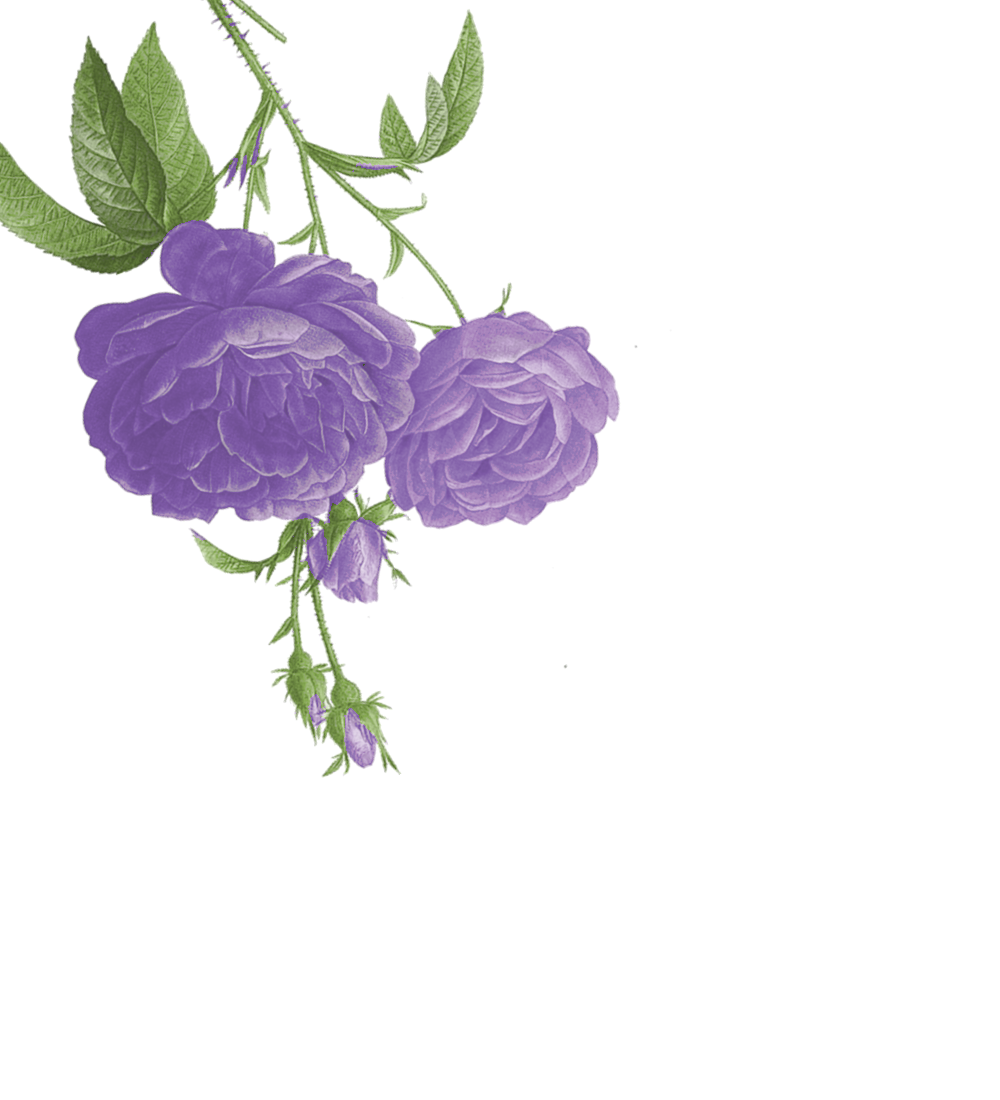
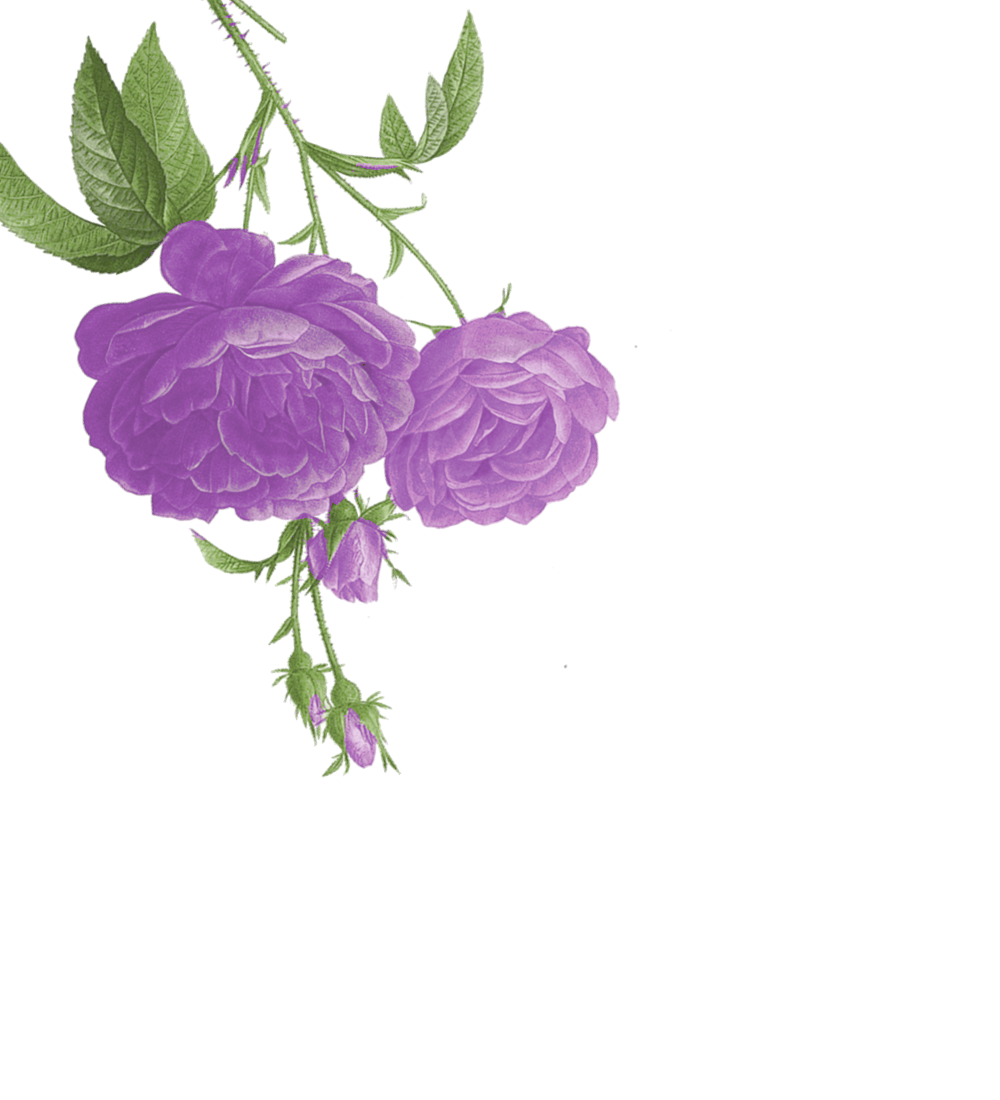
Lilas puxado para o rosa, trepadeira neon no titulo do TikTok Shop e destaques menores

Changed region(s): [[0.062, 0.1855, 0.589, 0.5564]]

diff --git a/index.html b/index.html
@@ -20,19 +20,19 @@
        ========================================================== */
     :root {
       /* Paleta gamer girly: branco, verde lima pastel aceso, lilás neon e preto */
-      --fundo: #f8f7fb;            /* branco levemente lilás */
-      --branco: #f8f7fb;
+      --fundo: #faf7fb;            /* branco levemente lilás */
+      --branco: #faf7fb;
       --fundo-2: rgba(255, 255, 255, .6);
       --superficie: #ffffff;       /* cards */
-      --superficie-2: #f0ebf8;
+      --superficie-2: #f6ecf8;
       --texto: #17141c;            /* preto: texto principal */
       --texto-suave: #5b5566;      /* texto de apoio */
       --escuro: #17141c;
-      --milk: #6a35c9;             /* lilás (tom escuro, legível no branco): números e destaques */
-      --milk-forte: #b57cff;
-      --neon: #b57cff;             /* lilás neon: botões, brilho e detalhes */
-      --neon-texto: #7d3ddb;       /* lilás neon para TEXTO no branco */
-      --brilho: 0 0 10px rgba(181, 124, 255, .6), 0 0 26px rgba(181, 124, 255, .38);
+      --milk: #8e2fb0;             /* lilás (tom escuro, legível no branco): números e destaques */
+      --milk-forte: #e07bf5;
+      --neon: #e07bf5;             /* lilás neon: botões, brilho e detalhes */
+      --neon-texto: #a23bbf;       /* lilás neon para TEXTO no branco */
+      --brilho: 0 0 10px rgba(224, 123, 245, .6), 0 0 26px rgba(224, 123, 245, .38);
       --salvia: #4e7a1c;           /* verde lima escuro, legível no branco */
       --salvia-linha: #b8e86a;     /* verde lima aceso: linhas */
       --salvia-fundo: rgba(198, 243, 107, .2);
@@ -65,7 +65,7 @@
     p { margin: 0; }
     ul { margin: 0; padding: 0; list-style: none; }
     button, input, textarea { font: inherit; color: inherit; }
-    ::selection { background: #e3d2ff; color: var(--escuro); }
+    ::selection { background: #f6d3ff; color: var(--escuro); }
 
     :focus-visible { outline: 2px solid var(--neon-texto); outline-offset: 3px; }
 
@@ -160,7 +160,7 @@
     .btn-vermelho { background: var(--neon); border-color: var(--neon); color: var(--escuro); }
     .btn-vermelho:hover, .btn-vermelho:focus-visible {
       background: var(--btn-hover-bg, #141214); border-color: var(--btn-hover-bg, #141214); color: var(--btn-hover-cor, #fff);
-      box-shadow: 0 0 30px rgba(181, 124, 255, .7);
+      box-shadow: 0 0 30px rgba(224, 123, 245, .7);
     }
     .btn-cinza { background: transparent; color: var(--texto); border-color: var(--texto); }
     .btn-cinza:hover, .btn-cinza:focus-visible { color: var(--neon-texto); border-color: var(--neon); text-shadow: var(--brilho); }
@@ -175,8 +175,8 @@
     /* Barra superior em verde botânico */
     .topo {
       position: fixed; inset: 0 0 auto 0; z-index: 100; height: var(--header-h);
-      --texto: #17141c; --neon-texto: #6a2fc4; --milk: #6a2fc4;
-      --brilho: 0 0 10px rgba(181, 124, 255, .9), 0 0 24px rgba(181, 124, 255, .55);
+      --texto: #17141c; --neon-texto: #8a1fa8; --milk: #8a1fa8;
+      --brilho: 0 0 10px rgba(224, 123, 245, .9), 0 0 24px rgba(224, 123, 245, .55);
       background: linear-gradient(90deg, rgba(222, 248, 172, .95), rgba(205, 244, 140, .95));
       box-shadow: 0 4px 30px rgba(198, 243, 107, .45);
       backdrop-filter: blur(12px); -webkit-backdrop-filter: blur(12px);
@@ -213,16 +213,16 @@
     /* Capa: preto translúcido, com cores próprias para o texto claro */
     .capa {
       --texto: #f6f3f1; --texto-suave: #d6ced3; --borda: rgba(255, 255, 255, .16);
-      --milk: #d9c2ff; --neon-texto: #d2a6ff; --salvia: #c6f36b;
-      --brilho: 0 0 10px rgba(181, 124, 255, .75), 0 0 28px rgba(181, 124, 255, .5);
+      --milk: #f0c6ff; --neon-texto: #f2a8ff; --salvia: #c6f36b;
+      --brilho: 0 0 10px rgba(224, 123, 245, .75), 0 0 28px rgba(224, 123, 245, .5);
       --btn-hover-bg: #ffffff; --btn-hover-cor: #141214;
-      --lilas-neon: #c77dff; --lilas-brilho: 0 0 8px rgba(199, 125, 255, .9), 0 0 22px rgba(199, 125, 255, .6), 0 0 44px rgba(199, 125, 255, .35);
+      --lilas-neon: #e58cff; --lilas-brilho: 0 0 8px rgba(229, 140, 255, .9), 0 0 22px rgba(229, 140, 255, .6), 0 0 44px rgba(229, 140, 255, .35);
       color: var(--texto);
       position: relative; min-height: 100vh; min-height: 100svh;
       display: flex; flex-direction: column; justify-content: flex-end;
       padding-top: calc(var(--header-h) + 36px);
       background:
-        radial-gradient(ellipse 55% 60% at 80% 30%, rgba(181, 124, 255, .26), transparent 70%),
+        radial-gradient(ellipse 55% 60% at 80% 30%, rgba(224, 123, 245, .26), transparent 70%),
         radial-gradient(ellipse 45% 45% at 6% 100%, rgba(198, 243, 107, .14), transparent 70%),
         rgba(20, 16, 26, .93);
       overflow: hidden;
@@ -241,7 +241,7 @@
     .capa h1 span:hover { color: var(--neon-texto); text-shadow: var(--brilho); }
     /* KIESKI em lilás neon */
     .capa h1 .linha-2 { display: inline-block; color: var(--lilas-neon); text-shadow: var(--lilas-brilho); padding-right: .08em; }
-    .capa h1 .linha-2:hover { color: #e2b8ff; text-shadow: 0 0 12px rgba(199, 125, 255, 1), 0 0 34px rgba(199, 125, 255, .8), 0 0 60px rgba(199, 125, 255, .5); }
+    .capa h1 .linha-2:hover { color: #f6c4ff; text-shadow: 0 0 12px rgba(229, 140, 255, 1), 0 0 34px rgba(229, 140, 255, .8), 0 0 60px rgba(229, 140, 255, .5); }
     .capa .frase { margin-top: 28px; max-width: 540px; font-size: clamp(1.05rem, 2vw, 1.22rem); color: var(--texto-suave); line-height: 1.7; }
     .capa .frase strong { color: var(--milk); font-weight: 600; transition: color .3s ease, text-shadow .3s ease; }
     .capa .frase strong:hover { color: var(--neon-texto); text-shadow: var(--brilho); }
@@ -286,8 +286,8 @@
     /* "Já trabalhei com": faixa em lilás neon, estilo gamer */
     .faixa-marcas {
       position: relative; overflow: hidden; background: #0b0a0d;
-      border-top: 1px solid rgba(199, 125, 255, .55); border-bottom: 1px solid rgba(199, 125, 255, .55);
-      box-shadow: 0 0 18px rgba(199, 125, 255, .35), inset 0 0 22px rgba(199, 125, 255, .12);
+      border-top: 1px solid rgba(229, 140, 255, .55); border-bottom: 1px solid rgba(229, 140, 255, .55);
+      box-shadow: 0 0 18px rgba(229, 140, 255, .35), inset 0 0 22px rgba(229, 140, 255, .12);
     }
     .faixa-marcas::after {
       /* linhas de tela de monitor (scanlines) */
@@ -310,7 +310,7 @@
       color: var(--lilas-neon); text-shadow: var(--lilas-brilho);
       display: flex; align-items: center; gap: 26px; transition: color .3s ease, text-shadow .3s ease;
     }
-    .faixa-trilho li:hover { color: #ffffff; text-shadow: 0 0 10px rgba(181, 124, 255, 1), 0 0 30px rgba(181, 124, 255, .8), 0 0 50px rgba(181, 124, 255, .5); }
+    .faixa-trilho li:hover { color: #ffffff; text-shadow: 0 0 10px rgba(224, 123, 245, 1), 0 0 30px rgba(224, 123, 245, .8), 0 0 50px rgba(224, 123, 245, .5); }
     .faixa-trilho li::after { content: ""; width: 6px; height: 6px; background: var(--verde-neon); box-shadow: 0 0 10px var(--verde-neon); transform: rotate(45deg); }
     @keyframes deslizar { to { transform: translateX(-50%); } }
 
@@ -323,7 +323,7 @@
       --texto: #141214; --texto-suave: #5a525d; --borda: rgba(20, 18, 20, .12);
       --superficie: #ffffff; --superficie-2: #efe9ec;
       --milk: #6f5a78; --milk-forte: #8a7593;
-      --neon-texto: #7d3ddb; --brilho: 0 0 10px rgba(181, 124, 255, .6), 0 0 26px rgba(181, 124, 255, .38);
+      --neon-texto: #a23bbf; --brilho: 0 0 10px rgba(224, 123, 245, .6), 0 0 26px rgba(224, 123, 245, .38);
       --salvia: #4b6844; --salvia-linha: #8aa37f; --salvia-fundo: rgba(95, 124, 86, .1);
       color: var(--texto);
     }
@@ -354,7 +354,7 @@
     }
     .polaroid:hover .polaroid-foto {
       outline-color: var(--neon); outline-offset: 20px;
-      box-shadow: 0 30px 60px rgba(20, 18, 20, .22), 0 0 34px rgba(181, 124, 255, .25);
+      box-shadow: 0 30px 60px rgba(20, 18, 20, .22), 0 0 34px rgba(224, 123, 245, .25);
     }
     .polaroid.mexendo .polaroid-foto { transition: transform .12s linear, outline-offset .6s ease, outline-color .6s ease, box-shadow .6s ease; }
     .polaroid:hover .polaroid-foto .midia { transform: scale(1.07); filter: saturate(1.08) contrast(1.03); }
@@ -387,7 +387,7 @@
     /* ==========================================================
        3. CONTEÚDOS DE DESTAQUE
        ========================================================== */
-    .destaques-grade { display: grid; grid-template-columns: repeat(3, minmax(0, 1fr)); gap: clamp(16px, 3vw, 36px); max-width: 1040px; margin-inline: auto; }
+    .destaques-grade { display: grid; grid-template-columns: repeat(3, minmax(0, 1fr)); gap: clamp(16px, 3vw, 36px); max-width: 900px; margin-inline: auto; }
     .destaque {
       display: block; text-decoration: none; color: inherit;
       background: var(--superficie); overflow: hidden; position: relative; border: 1px solid var(--borda);
@@ -395,7 +395,7 @@
     }
     .destaque:hover, .destaque:focus-visible {
       transform: translateY(-6px); border-color: var(--neon);
-      box-shadow: 0 0 0 1px var(--neon), 0 24px 50px rgba(181, 124, 255, .22);
+      box-shadow: 0 0 0 1px var(--neon), 0 24px 50px rgba(224, 123, 245, .22);
     }
     .destaque-capa { aspect-ratio: 9 / 16; position: relative; overflow: hidden; }
     .destaque-capa .midia { transition: transform .7s ease; }
@@ -420,7 +420,7 @@
     .play svg { width: 26px; height: 26px; margin-left: 4px; fill: var(--escuro); transition: fill .3s ease; }
     .destaque:hover .play, .destaque:focus-visible .play,
     .trabalho:hover .play-mini, .trabalho:focus-visible .play-mini {
-      background: var(--neon); border-color: var(--neon); transform: scale(1.08); box-shadow: 0 0 26px rgba(181, 124, 255, .7);
+      background: var(--neon); border-color: var(--neon); transform: scale(1.08); box-shadow: 0 0 26px rgba(224, 123, 245, .7);
     }
     .destaque:hover .play svg, .destaque:focus-visible .play svg,
     .trabalho:hover .play-mini svg, .trabalho:focus-visible .play-mini svg { fill: #fff; }
@@ -446,10 +446,10 @@
     .filtros { display: flex; flex-wrap: wrap; gap: 8px; margin-bottom: 40px; }
     /* Botões dos nichos: lilás neon; ao passar o mouse dão um salto e ficam verde lima */
     .filtro {
-      border: 1px solid var(--neon); background: rgba(181, 124, 255, .14); color: #5a24b8;
+      border: 1px solid var(--neon); background: rgba(224, 123, 245, .14); color: #8a1fa8;
       padding: 10px 18px; border-radius: 999px; cursor: pointer;
       font-weight: 600; font-size: .72rem; letter-spacing: .18em; text-transform: uppercase;
-      box-shadow: 0 0 10px rgba(181, 124, 255, .45), inset 0 0 8px rgba(181, 124, 255, .18);
+      box-shadow: 0 0 10px rgba(224, 123, 245, .45), inset 0 0 8px rgba(224, 123, 245, .18);
       transition: transform .45s cubic-bezier(.34, 1.7, .5, 1), background-color .3s ease, border-color .3s ease, color .3s ease, box-shadow .3s ease;
     }
     .filtro:hover, .filtro:focus-visible {
@@ -459,7 +459,7 @@
     }
     .filtro[aria-pressed="true"] {
       background: var(--neon); border-color: var(--neon); color: var(--escuro); text-shadow: none;
-      box-shadow: 0 0 14px rgba(181, 124, 255, .85), 0 0 30px rgba(181, 124, 255, .45);
+      box-shadow: 0 0 14px rgba(224, 123, 245, .85), 0 0 30px rgba(224, 123, 245, .45);
     }
     .filtro[aria-pressed="true"]:hover { background: var(--verde-neon); border-color: var(--verde-neon); box-shadow: 0 10px 24px rgba(198, 243, 107, .55), 0 0 18px rgba(198, 243, 107, .85); }
 
@@ -490,7 +490,7 @@
       background: var(--superficie); color: var(--texto); cursor: pointer; display: grid; place-items: center;
       transition: background-color .3s ease, border-color .3s ease, color .3s ease, box-shadow .3s ease;
     }
-    .seta:hover { border-color: var(--neon); color: var(--neon-texto); box-shadow: 0 0 16px rgba(181,124,255,.45); }
+    .seta:hover { border-color: var(--neon); color: var(--neon-texto); box-shadow: 0 0 16px rgba(224,123,245,.45); }
     .seta svg { width: 18px; height: 18px; }
     .trilho {
       display: grid; grid-auto-flow: column; grid-auto-columns: clamp(176px, 22vw, 272px);
@@ -514,7 +514,7 @@
     }
     .trabalho:hover, .trabalho:focus-visible {
       transform: scale(1.09); z-index: 3;
-      box-shadow: 0 0 0 2px var(--neon), 0 18px 40px rgba(181, 124, 255, .32);
+      box-shadow: 0 0 0 2px var(--neon), 0 18px 40px rgba(224, 123, 245, .32);
     }
     .trabalho .midia { position: absolute; inset: 0; }
     .trabalho img.midia { object-position: 50% 30%; }
@@ -541,6 +541,22 @@
     /* TikTok Shop */
     .tts-topo { display: grid; grid-template-columns: 1.1fr .9fr; gap: clamp(24px, 5vw, 64px); align-items: end; margin-bottom: clamp(20px, 4vw, 36px); }
     .tts-topo .cabecalho-secao { margin-bottom: 0; }
+    /* Título do TikTok Shop aceso em neon, com a trepadeira enroscada */
+    .tts-titulo { position: relative; display: inline-block; padding: 22px 12px; margin: -22px -12px; }
+    .tts-titulo .vinha { position: absolute; inset: 0; width: 100%; height: 100%; overflow: visible; pointer-events: none; }
+    .tts-titulo .vinha-tras { z-index: 0; opacity: .6; }
+    .tts-titulo .vinha-frente { z-index: 2; }
+    .tts-titulo .tts-neon { position: relative; z-index: 1; }
+    .tts-neon {
+      color: #b829b8;
+      text-shadow: 0 0 4px rgba(255, 170, 240, .9), 0 0 14px rgba(224, 123, 245, .85), 0 0 34px rgba(224, 123, 245, .55), 0 0 60px rgba(224, 123, 245, .3);
+      animation: neon-pisca 7s infinite;
+    }
+    .tts-neon:hover { color: #d23ad2; }
+    @keyframes neon-pisca {
+      0%, 17%, 21%, 24%, 60%, 64%, 100% { opacity: 1; }
+      19%, 22.5%, 62% { opacity: .62; }
+    }
     .tts-selo {
       display: inline-flex; align-items: center; gap: 8px; margin-bottom: 16px;
       background: var(--neon); color: var(--escuro); padding: 6px 12px 5px;
@@ -570,7 +586,7 @@
       background: transparent; color: var(--texto); font-size: 1.6rem; line-height: 1;
       transition: color .3s ease, border-color .3s ease, box-shadow .3s ease;
     }
-    .fechar-video:hover { color: var(--neon-texto); border-color: var(--neon); box-shadow: 0 0 16px rgba(181,124,255,.45); }
+    .fechar-video:hover { color: var(--neon-texto); border-color: var(--neon); box-shadow: 0 0 16px rgba(224,123,245,.45); }
     /* Player: a altura acompanha a tela, então o vídeo aparece inteiro sem rolar */
     .moldura-video {
       height: min(calc(100vh - 130px), 640px); aspect-ratio: 9 / 16; width: auto;
@@ -610,7 +626,7 @@
       display: block; font-family: var(--titulo); font-weight: 500; color: var(--milk);
       font-size: clamp(2.6rem, 5.5vw, 4.2rem); line-height: 1; transition: color .3s ease, text-shadow .3s ease;
     }
-    .contador:hover { transform: translateY(-8px) scale(1.06); background: var(--superficie); box-shadow: 0 22px 50px rgba(181, 124, 255, .2), 0 0 0 1px var(--neon); z-index: 2; }
+    .contador:hover { transform: translateY(-8px) scale(1.06); background: var(--superficie); box-shadow: 0 22px 50px rgba(224, 123, 245, .2), 0 0 0 1px var(--neon); z-index: 2; }
     .contador strong { transition: color .3s ease, text-shadow .3s ease, transform .4s cubic-bezier(.2, .7, .2, 1); }
     .contador:hover strong { color: var(--neon-texto); text-shadow: var(--brilho); transform: scale(1.12); }
     .contador span { display: block; margin-top: 12px; color: var(--texto-suave); font-weight: 500; font-size: .74rem; letter-spacing: .14em; text-transform: uppercase; }
@@ -618,7 +634,7 @@
     .subtitulo-bloco::after { content: ""; flex: 1; height: 1px; background: var(--borda); }
     .resultados { display: grid; grid-template-columns: repeat(3, minmax(0, 1fr)); gap: 18px; }
     .resultado { padding: 28px; background: var(--superficie); border-top: 2px solid var(--salvia-linha); transition: box-shadow .4s ease, border-color .4s ease, transform .4s cubic-bezier(.2, .7, .2, 1); }
-    .resultado:hover { border-color: var(--neon); box-shadow: 0 22px 50px rgba(181, 124, 255, .22); transform: translateY(-8px) scale(1.03); }
+    .resultado:hover { border-color: var(--neon); box-shadow: 0 22px 50px rgba(224, 123, 245, .22); transform: translateY(-8px) scale(1.03); }
     .resultado .nicho { font-size: .66rem; font-weight: 600; letter-spacing: .22em; text-transform: uppercase; color: var(--salvia); }
     .resultado strong { display: block; font-family: var(--titulo); font-weight: 500; font-size: 3rem; line-height: 1.1; margin-top: 10px; color: var(--milk); transition: color .3s ease, text-shadow .3s ease; }
     .resultado:hover strong { color: var(--neon-texto); text-shadow: var(--brilho); }
@@ -630,7 +646,7 @@
       padding: 30px 26px; display: flex; flex-direction: column; gap: 18px;
       transition: border-color .3s ease, box-shadow .3s ease;
     }
-    .depoimento:hover { border-color: var(--neon); box-shadow: 0 16px 40px rgba(181, 124, 255, .16); }
+    .depoimento:hover { border-color: var(--neon); box-shadow: 0 16px 40px rgba(224, 123, 245, .16); }
     .depoimento .aspas { font-family: var(--titulo); font-size: 4.4rem; line-height: .6; color: var(--salvia-linha); height: 28px; }
     .estrelas { color: var(--neon-texto); letter-spacing: 3px; font-size: .95rem; }
     .depoimento blockquote { margin: 0; color: var(--texto); font-size: 1.02rem; }
@@ -659,7 +675,7 @@
     }
     .campo textarea { min-height: 140px; resize: vertical; }
     .campo input::placeholder, .campo textarea::placeholder { color: #7d757f; }
-    .campo input:focus, .campo textarea:focus { outline: none; border-color: var(--neon); box-shadow: 0 0 0 3px rgba(181,124,255,.3), 0 0 18px rgba(181,124,255,.25); }
+    .campo input:focus, .campo textarea:focus { outline: none; border-color: var(--neon); box-shadow: 0 0 0 3px rgba(224,123,245,.3), 0 0 18px rgba(224,123,245,.25); }
     .form .btn { justify-self: start; }
     .aviso-form { display: none; background: #eaf7ee; border: 1px solid #6cc08a; color: #135c2e; padding: 12px 14px; font-weight: 600; }
     .aviso-form.mostrar { display: block; }
@@ -670,7 +686,7 @@
       background: var(--fundo); border: 1px solid var(--borda); padding: 14px 16px;
       transition: border-color .3s ease, transform .3s ease, box-shadow .3s ease; min-width: 0;
     }
-    .botao-contato:hover { border-color: var(--neon); transform: translateX(4px); box-shadow: 0 0 22px rgba(181,124,255,.3); }
+    .botao-contato:hover { border-color: var(--neon); transform: translateX(4px); box-shadow: 0 0 22px rgba(224,123,245,.3); }
     .botao-contato:hover b { color: var(--neon-texto); text-shadow: var(--brilho); }
     .botao-contato .icone { width: 44px; height: 44px; background: var(--texto); display: grid; place-items: center; flex-shrink: 0; transition: background-color .3s ease; }
     .botao-contato:hover .icone { background: var(--neon); }
@@ -1107,7 +1123,7 @@
         itens: [
           { titulo: "Demonstração com carrinho", formato: "Vídeo TikTok Shop", descricao: "Mostro o produto funcionando e levo o público direto para o carrinho.", video: "", imagem: "", alt: "Exemplo de vídeo de demonstração para TikTok Shop", gradiente: "linear-gradient(165deg,#3b2a31,#a8546f)" },
           { titulo: "Antes e depois que vende", formato: "Vídeo TikTok Shop", descricao: "Resultado real na tela em poucos segundos, com chamada para compra.", video: "", imagem: "", alt: "Exemplo de vídeo de antes e depois para TikTok Shop", gradiente: "linear-gradient(200deg,#2c3a2c,#7f9a7b)" },
-          { titulo: "Unboxing com oferta", formato: "Vídeo TikTok Shop", descricao: "Primeira impressão sincera destacando preço, cupom e frete.", video: "", imagem: "", alt: "Exemplo de vídeo de unboxing para TikTok Shop", gradiente: "linear-gradient(140deg,#4a2234,#b57cff)" }
+          { titulo: "Unboxing com oferta", formato: "Vídeo TikTok Shop", descricao: "Primeira impressão sincera destacando preço, cupom e frete.", video: "", imagem: "", alt: "Exemplo de vídeo de unboxing para TikTok Shop", gradiente: "linear-gradient(140deg,#4a2234,#e07bf5)" }
         ]
       },
 
@@ -1419,8 +1435,59 @@
     /* ---------- TikTok Shop ---------- */
     const tts = CONFIG.tiktokShop;
     $("#ttsCabecalho").innerHTML = `<p class="tts-selo">${icones.carrinho} ${esc(tts.selo)}</p>
-      <h2 class="titulo-secao" id="titulo-tiktokshop">${esc(tts.titulo)}</h2>
+      <div class="tts-titulo">
+        <svg class="vinha vinha-tras" aria-hidden="true"></svg>
+        <h2 class="titulo-secao tts-neon" id="titulo-tiktokshop">${esc(tts.titulo)}</h2>
+        <svg class="vinha vinha-frente" aria-hidden="true"></svg>
+      </div>
       <p class="sub-secao">${esc(tts.texto)}</p>`;
+
+    // Trepadeira de jiboia enroscada no título do TikTok Shop: passa por trás e pela frente das letras
+    function desenharVinha() {
+      const caixa = document.querySelector(".tts-titulo");
+      if (!caixa) return;
+      const w = caixa.offsetWidth, h = caixa.offsetHeight;
+      if (!w || !h) return;
+      const P = Math.max(150, Math.min(240, w / 4));          // largura de cada volta
+      const A = h / 2 + 4;                                     // a volta abraça o título inteiro
+      const yEm = (x) => h / 2 + A * Math.sin((2 * Math.PI * x) / P);
+      const naFrente = (x) => Math.cos((2 * Math.PI * x) / P) > 0;   // descendo = na frente das letras
+      const camadas = { frente: { fio: [], folhas: "", luzes: "" }, tras: { fio: [], folhas: "", luzes: "" } };
+      let trechoAtual = null, lado = null;
+      for (let x = -12; x <= w + 12; x += 3) {
+        const l = naFrente(x) ? "frente" : "tras";
+        if (l !== lado) { trechoAtual = []; camadas[l].fio.push(trechoAtual); lado = l; }
+        trechoAtual.push(`${x.toFixed(1)} ${yEm(x).toFixed(1)}`);
+      }
+      const cores = ["#7fb84f", "#94c95e", "#a9d871", "#c0e68e", "#6ea845"];
+      const folha = "M0 0 C2 -6 10 -8 14 -4 C16 -2 17 0 19 1 C16 3 13 7 8 7 C3 6 1 4 0 0 Z";
+      let i = 0;
+      for (let x = -6; x <= w + 6; x += 6 + (i % 4)) {
+        i++;
+        const l = naFrente(x) ? "frente" : "tras";
+        const ang = (i % 2 ? -50 : 130) + ((i * 23) % 60);
+        const tam = 0.3 + ((i * 37) % 28) / 100;
+        camadas[l].folhas += `<path d="${folha}" transform="translate(${x.toFixed(1)} ${yEm(x).toFixed(1)}) rotate(${ang}) scale(${tam.toFixed(2)})" fill="${cores[i % cores.length]}"/>`;
+      }
+      let j = 0;
+      for (let x = 4; x <= w; x += 20) {
+        j++;
+        const l = naFrente(x) ? "frente" : "tras";
+        camadas[l].luzes += `<g class="luz" style="animation-delay:-${((j * 0.41) % 3).toFixed(2)}s;animation-duration:${(1.8 + (j % 5) * 0.4).toFixed(2)}s">
+          <circle cx="${x}" cy="${yEm(x).toFixed(1)}" r="9" fill="url(#halo-vinha)"/><circle cx="${x}" cy="${yEm(x).toFixed(1)}" r="1.9" fill="#fffbe3"/></g>`;
+      }
+      const defs = `<defs><radialGradient id="halo-vinha"><stop offset="0" stop-color="#fff1a8"/><stop offset=".3" stop-color="#ffd76a" stop-opacity=".7"/><stop offset="1" stop-color="#ffc94a" stop-opacity="0"/></radialGradient></defs>`;
+      for (const l of ["frente", "tras"]) {
+        const svg = caixa.querySelector(l === "frente" ? ".vinha-frente" : ".vinha-tras");
+        svg.setAttribute("viewBox", `0 0 ${w} ${h}`);
+        const fios = camadas[l].fio.map((t) => `<path d="M${t.join(" L")}" fill="none" stroke="#b8a57c" stroke-width=".9"/>`).join("");
+        svg.innerHTML = (l === "tras" ? defs : "") + fios + camadas[l].folhas + camadas[l].luzes;
+      }
+    }
+    desenharVinha();
+    if (document.fonts) document.fonts.ready.then(desenharVinha);
+    let esperaVinha;
+    window.addEventListener("resize", () => { clearTimeout(esperaVinha); esperaVinha = setTimeout(desenharVinha, 200); });
     $("#ttsLista").innerHTML = tts.diferenciais.map((d) => `<li>${icones.check}<span>${esc(d)}</span></li>`).join("");
     $("#ttsTrilho").innerHTML = tts.itens.map((t) => cardTrabalho({ categoria: tts.selo, ...t })).join("");
 
@@ -1516,7 +1583,7 @@
       const aviso = $("#avisoForm");
       const invalido = [...form.elements].find((el) => el.willValidate && !el.checkValidity());
       if (invalido) {
-        aviso.style.cssText = "background:#f4ecff;border-color:#7d3ddb;color:#4d1f8f";
+        aviso.style.cssText = "background:#fbeaff;border-color:#a23bbf;color:#6e1c80";
         aviso.textContent = invalido.type === "email" && invalido.value
           ? "Confira o e-mail digitado, parece que falta alguma coisa."
           : "Preencha nome, e-mail e mensagem para eu poder te responder.";
